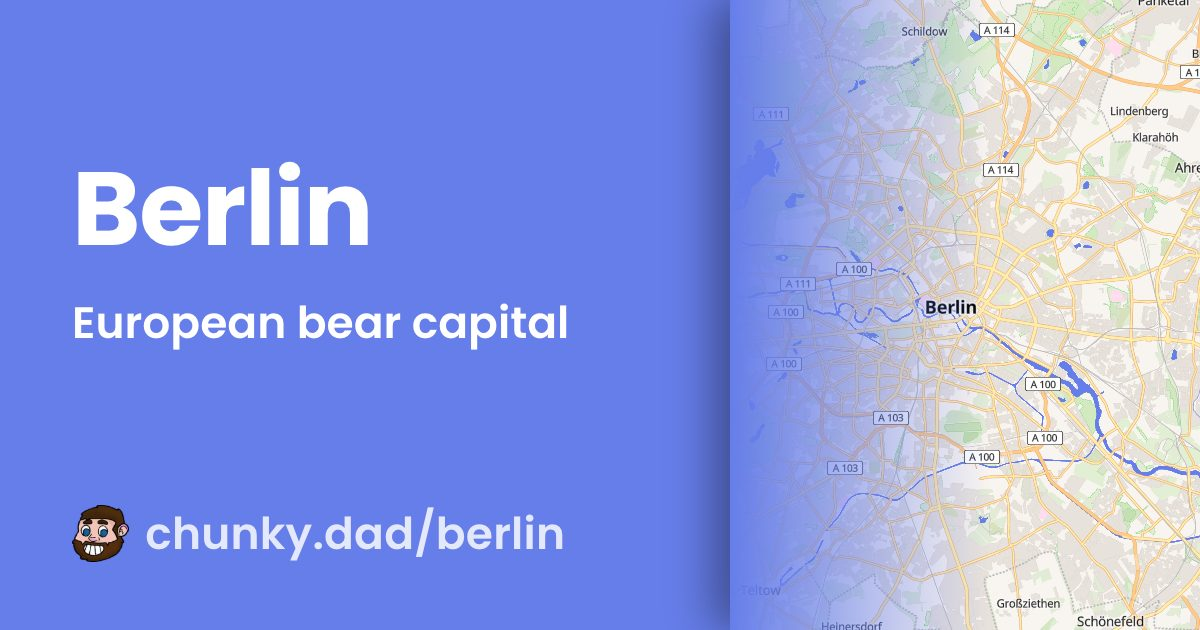
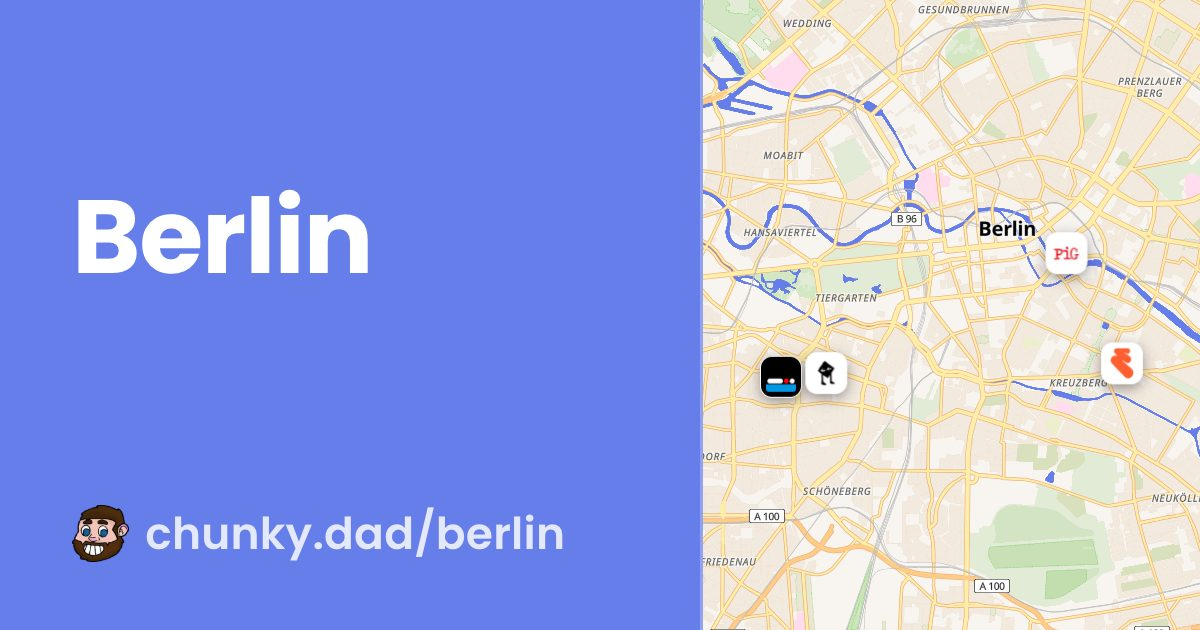
City cards: real venues on the map, no fade, no catchphrases
Three things were wrong with them. The gradient that faded the ground into the
map was a smear across the artwork — gone, replaced by a clean edge. The
tagline was a catchphrase ("What's the bear 411?"), which is not what a share
card is for — gone entirely; the map says what the city is far better.

And the map itself was a generic locator with a meaningless dot in the middle.
It now pins the venues that city's scene actually happens in, drawn with the
same favicon tiles the site uses everywhere else. 95% of venues resolve to a
real icon, so every city but Philly gets pins; Philly falls back to a plain
city map rather than showing nothing.

Ranked by how many events a venue holds, recurring first. Recurring alone was
not viable — only 5 of 24 cities have any — so "most used venue" is what
actually carries it, which was the other half of the suggestion.

Framing had to invert for these. An event card frames the CITY and pulls back
just far enough to keep its one venue in shot; a city card's venues ARE the
subject, so they set the frame and the city centre no longer drags it wide.
NYC was otherwise showing six tiles huddled in one corner of the metro area.

Two judgement calls worth naming:

Pins are NOT deduped by brand. Three venues under one operator are three real
places — Provincetown is exactly that, and collapsing by brand left it with a
single pin. Instead, tiles that genuinely overlap are dropped after the frame
[…]

diff --git a/tools/og-card.js b/tools/og-card.js
@@ -381,22 +381,66 @@ function mapScript(configJson) {
         });
       } catch (e) {}
     });
-    var el = document.createElement('div');
-    el.className = 'og-pin' + (cfg.pin ? '' : ' plain');
-    if (cfg.pin) {
-      var img = document.createElement('img');
-      img.src = cfg.pin;
-      el.appendChild(img);
-    }
-    new maplibregl.Marker({ element: el }).setLngLat([cfg.lng, cfg.lat]).addTo(map);
-    var bounds = new maplibregl.LngLatBounds([cfg.cityLng, cfg.cityLat], [cfg.cityLng, cfg.cityLat]);
-    bounds.extend([cfg.lng, cfg.lat]);
+    // One event pins itself; a city pins the venues it actually has, so the
+    // map reads as that scene rather than as a generic locator.
+    var points = (cfg.pins && cfg.pins.length)
+      ? cfg.pins
+      : [{ lat: cfg.lat, lng: cfg.lng, icon: cfg.pin }];
+    var placed = [];
+    // An EVENT card frames the city and pulls back only far enough to keep its
+    // one venue in shot. A CITY card is the other way round: the venues ARE the
+    // subject, so they set the frame and the city centre does not drag it wide.
+    var usePins = !!(cfg.pins && cfg.pins.length);
+    var bounds = usePins
+      ? new maplibregl.LngLatBounds()
+      : new maplibregl.LngLatBounds([cfg.cityLng, cfg.cityLat], [cfg.cityLng, cfg.cityLat]);
+    points.forEach(function (pt) {
+      if (!pt || !isFinite(pt.lat) || !isFinite(pt.lng)) return;
+      var el = document.createElement('div');
+      el.className = 'og-pin' + (pt.icon ? '' : ' plain');
+      if (pt.plate) el.style.background = pt.plate;
+      if (pt.icon) {
+        var img = document.createElement('img');
+        img.src = pt.icon;
+        // a pin whose icon will not load is worse than no pin
+        img.onerror = function () { el.remove(); };
+        el.appendChild(img);
+      }
+      var marker = new maplibregl.Marker({ element: el }).setLngLat([pt.lng, pt.lat]).addTo(map);
+      placed.push({ marker: marker, lng: pt.lng, lat: pt.lat });
+      bounds.extend([pt.lng, pt.lat]);
+    });
     // padding scaled to the box, not a fixed number: on a 190px-tall inset a
     // flat 70 left almost no usable height and fitBounds answered by zooming
     // out to three states
     var box = map.getContainer();
     var pad = Math.max(10, Math.min(70, Math.min(box.clientWidth, box.clientHeight) * 0.2));
-    map.fitBounds(bounds, { padding: pad, maxZoom: cfg.cityZoom, duration: 0 });
+    // pins are 40px and anchored at their centre, so a tile on the boundary
+    // hangs half off the card unless the frame leaves room for it
+    if (usePins) pad = Math.max(pad, 78);
+    // Venues in one neighbourhood would otherwise fit to a single block, so a
+    // city card is allowed past the city's default zoom but not far past it.
+    var maxZoom = usePins ? Math.min(16, Math.max(cfg.cityZoom + 3, 13)) : cfg.cityZoom;
+    if (bounds.isEmpty && bounds.isEmpty()) {
+      map.jumpTo({ center: [cfg.cityLng, cfg.cityLat], zoom: cfg.cityZoom });
+    } else {
+      map.fitBounds(bounds, { padding: pad, maxZoom: maxZoom, duration: 0 });
+    }
+    // Venues in an old town can sit 150m apart — no zoom separates them without
+    // throwing the city away — so once the frame is settled, drop any tile that
+    // would land on top of one already kept. Four overlapping glyphs read as a
+    // rendering fault; three spaced ones read as a scene.
+    if (usePins && placed.length > 1) {
+      var kept = [];
+      placed.forEach(function (item) {
+        var pointPx = map.project([item.lng, item.lat]);
+        var collides = kept.some(function (k) {
+          return Math.abs(k.x - pointPx.x) < 40 && Math.abs(k.y - pointPx.y) < 40;
+        });
+        if (collides) { item.marker.remove(); return; }
+        kept.push(pointPx);
+      });
+    }
     map.once('idle', function () { ready = true; give(false); });
   } catch (e) {
     give(true);
@@ -570,7 +614,9 @@ function buildOgCardHtml(data) {
     const kindClass = kind ? ` place ${kind}-card` : '';
 
     const titleLength = String(d.title || '').length;
-    const titleClass = titleLength > 46 ? 'title t-xs' : (titleLength > 28 ? 'title t-sm' : 'title');
+    const titleClass = kind
+        ? (titleLength > 13 ? 'title p-xs' : titleLength > 11 ? 'title p-sm' : titleLength > 8 ? 'title p-md' : 'title')
+        : (titleLength > 46 ? 'title t-xs' : (titleLength > 28 ? 'title t-sm' : 'title'));
 
     const faviconTile = favicon
         ? `<span class="fav" style="background:${esc(plate)}"><img src="${favicon}" alt="" onerror="this.parentNode.remove()"></span>`
@@ -586,7 +632,8 @@ function buildOgCardHtml(data) {
         lat: m.lat, lng: m.lng,
         cityLat: m.cityLat, cityLng: m.cityLng,
         cityZoom: Number(m.cityZoom) || 11,
-        pin: favicon
+        pin: favicon,
+        pins: Array.isArray(m.pins) ? m.pins : null
     }).replace(/</g, '\\u003c') : '';
 
     // The address bar, not a place name: someone who sees the image should
@@ -864,34 +911,33 @@ ${m ? '<link rel="stylesheet" href="https://unpkg.com/maplibre-gl@5.24.0/dist/ma
      event card. */
   /* the body's own padding reserves the map's column — setting a width on
      .copy as well would subtract the same space twice and crush the name */
-  body.place:not(.no-map) { padding-right: 540px; }
+  body.place:not(.no-map) { padding-right: 566px; }
+  /* A city name is one or two words and must not wrap mid-word, so it steps
+     down by length rather than clamping. "Provincetown" is the wide case. */
   body.place .title { font-size: 104px; line-height: 1.06; -webkit-line-clamp: 2; }
-  body.place .title.t-sm { font-size: 78px; }
-  body.place .title.t-xs { font-size: 60px; }
+  body.place .title.p-md { font-size: 88px; }
+  body.place .title.p-sm { font-size: 74px; }
+  body.place .title.p-xs { font-size: 62px; }
   body.place:not(.no-map) .map {
     right: 0;
     top: 0;
     bottom: 0;
-    width: 470px;
+    width: 500px;
     height: auto;
     border-radius: 0;
-    box-shadow: -18px 0 44px rgba(6, 8, 20, 0.42);
-  }
-  /* the ground fades into the map rather than butting against it */
-  body.place:not(.no-map) .map::after {
-    content: '';
-    position: absolute;
-    inset: 0;
-    pointer-events: none;
-    background: linear-gradient(90deg, ${aurora.c1} 0%, rgba(0, 0, 0, 0) 55%);
+    /* a clean edge, not a gradient smear across the artwork */
+    box-shadow: none;
+    border-left: 3px solid rgba(255, 255, 255, 0.20);
   }
   body.place:not(.no-map) .row span { max-width: 560px; }
   /* the subtitle is a tagline, not a time or a venue — the clock glyph beside
      it was reading as information it is not */
   body.place .row svg { display: none; }
+  body.place .og-pin { width: 40px; height: 40px; border-radius: 11px; }
   body.place .row { gap: 0; }
-  /* and there is no single point to mark on a whole city */
-  body.place .og-pin { display: none; }
+  /* a city with no pinnable venues shows a bare map rather than a lone dot in
+     the middle of it — an unlabelled marker means nothing on a city card */
+  body.place .og-pin.plain { display: none; }
   body.home-card .title { letter-spacing: -0.02em; }
 </style>
 </head>

diff --git a/tools/generate-og-images.js b/tools/generate-og-images.js
@@ -391,6 +391,60 @@ function pruneCards(keep) {
  * cached it, and would re-render 24 cards every time an event rolled off a
  * calendar. Name, tagline and map are true indefinitely, so these render once.
  */
+/**
+ * The venues a city card pins: the places that city's scene actually happens
+ * in, most-used first, one pin per venue.
+ *
+ * Ranked by how many events a venue holds (recurring ones first, since a
+ * weekly is more "this is the scene here" than a one-off), then alphabetically
+ * so the choice is stable run to run. Capped, because a map of a dozen
+ * overlapping tiles reads as clutter rather than as a city.
+ */
+function collectCityPins(cityKey, limit = 8) {
+  let events = [];
+  try {
+    events = JSON.parse(fs.readFileSync(path.join(ROOT, 'data', 'calendars', `${cityKey}.json`), 'utf8')).events || [];
+  } catch {
+    return [];
+  }
+  const eventColors = loadEventColors(cityKey);
+  const barColors = loadBarColors(cityKey);
+
+  const byVenue = new Map();
+  for (const ev of events) {
+    const lat = Number(ev && ev.coordinates && ev.coordinates.lat);
+    const lng = Number(ev && ev.coordinates && ev.coordinates.lng);
+    if (!Number.isFinite(lat) || !Number.isFinite(lng) || (lat === 0 && lng === 0)) continue;
+    // festivals are city-wide, not a venue, and would pin an arbitrary point
+    if (ev.festival) continue;
+    const key = String(ev.bar || ev.slug || '').toLowerCase();
+    if (!key) continue;
+    if (!byVenue.has(key)) byVenue.set(key, { key, lat, lng, count: 0, recurring: false, event: ev });
+    const slot = byVenue.get(key);
+    slot.count++;
+    if (ev.recurring) slot.recurring = true;
+  }
+
+  return [...byVenue.values()]
+    .sort((a, b) => (b.recurring - a.recurring) || (b.count - a.count) || a.key.localeCompare(b.key))
+    .map(slot => {
+      const colors = eventColors.get(slot.event.slug) || barColors.get(slot.key) || null;
+      const website = (colors && colors.url) || slot.event.website
+        || (barColors.get(slot.key) && barColors.get(slot.key).website);
+      const icon = dataUri(localFaviconFile(website));
+      if (!icon) return null;   // a blank tile says nothing; better no pin
+      const plate = colors && /^#[0-9a-fA-F]{3,8}$/.test(colors.faviconPlate || '') ? colors.faviconPlate : '#ffffff';
+      return { lat: slot.lat, lng: slot.lng, icon, plate };
+    })
+    .filter(Boolean)
+    // Deliberately NOT deduped by icon. Three venues under one operator are
+    // three real places, and Provincetown is exactly that — collapsing them by
+    // brand left it with a single pin. Tiles that genuinely overlap on the
+    // finished map are dropped there instead, where their pixel positions are
+    // actually known.
+    .slice(0, limit);
+}
+
 function collectPlaceTargets() {
   const { CITY_CONFIG } = require(path.join(ROOT, 'js', 'city-config.js'));
   const out = [];
@@ -407,14 +461,17 @@ function collectPlaceTargets() {
       card: {
         kind: 'city',
         title: cfg.name || cityKey,
-        when: cfg.tagline || '',
+        // No tagline. "What's the bear 411?" is a catchphrase, and a share
+        // card is not the place for one — the map and the venues on it say
+        // what this city is far better than a slogan does.
         cityPath: cityKey,
         logoUrl,
         showMap: hasPoint,
         map: hasPoint ? {
           lat: Number(point.lat), lng: Number(point.lng),
           cityLat: Number(point.lat), cityLng: Number(point.lng),
-          cityZoom: Number(cfg.mapZoom) || 11
+          cityZoom: Number(cfg.mapZoom) || 11,
+          pins: collectCityPins(cityKey)
         } : null
       }
     });
@@ -569,5 +626,5 @@ if (require.main === module) {
   });
 }
 
-module.exports = { collectTargets, localFaviconFile };
+module.exports = { collectTargets, collectPlaceTargets, collectCityPins, localFaviconFile };
 

diff --git a/palm-springs/index.html b/palm-springs/index.html
@@ -86,11 +86,11 @@
   <meta property="og:title" content="Palm Springs - chunky.dad Bear Guide">
   <meta property="og:description" content="Complete gay bear guide to Palm Springs - events, bars, and the hottest bear scene">
   <meta property="og:url" content="https://chunky.dad/palm-springs/">
-  <meta property="og:image" content="https://chunky.dad/img/og/city/palm-springs.jpg?v=49d80c3b">
+  <meta property="og:image" content="https://chunky.dad/img/og/city/palm-springs.jpg?v=0e400e43">
   <meta name="twitter:card" content="summary_large_image">
   <meta name="twitter:title" content="Palm Springs - chunky.dad Bear Guide">
   <meta name="twitter:description" content="Complete gay bear guide to Palm Springs - events, bars, and the hottest bear scene">
-  <meta name="twitter:image" content="https://chunky.dad/img/og/city/palm-springs.jpg?v=49d80c3b">
+  <meta name="twitter:image" content="https://chunky.dad/img/og/city/palm-springs.jpg?v=0e400e43">
 </head>
 <body>
         <header>

diff --git a/birmingham/index.html b/birmingham/index.html
@@ -86,11 +86,11 @@
   <meta property="og:title" content="Birmingham - chunky.dad Bear Guide">
   <meta property="og:description" content="Complete gay bear guide to Birmingham - events, bars, and the hottest bear scene">
   <meta property="og:url" content="https://chunky.dad/birmingham/">
-  <meta property="og:image" content="https://chunky.dad/img/og/city/birmingham.jpg?v=a8b32d66">
+  <meta property="og:image" content="https://chunky.dad/img/og/city/birmingham.jpg?v=8c2b5cdf">
   <meta name="twitter:card" content="summary_large_image">
   <meta name="twitter:title" content="Birmingham - chunky.dad Bear Guide">
   <meta name="twitter:description" content="Complete gay bear guide to Birmingham - events, bars, and the hottest bear scene">
-  <meta name="twitter:image" content="https://chunky.dad/img/og/city/birmingham.jpg?v=a8b32d66">
+  <meta name="twitter:image" content="https://chunky.dad/img/og/city/birmingham.jpg?v=8c2b5cdf">
 </head>
 <body>
         <header>

diff --git a/san-diego/index.html b/san-diego/index.html
@@ -86,11 +86,11 @@
   <meta property="og:title" content="San Diego - chunky.dad Bear Guide">
   <meta property="og:description" content="Complete gay bear guide to San Diego - events, bars, and the hottest bear scene">
   <meta property="og:url" content="https://chunky.dad/san-diego/">
-  <meta property="og:image" content="https://chunky.dad/img/og/city/san-diego.jpg?v=00c21808">
+  <meta property="og:image" content="https://chunky.dad/img/og/city/san-diego.jpg?v=d51c6531">
   <meta name="twitter:card" content="summary_large_image">
   <meta name="twitter:title" content="San Diego - chunky.dad Bear Guide">
   <meta name="twitter:description" content="Complete gay bear guide to San Diego - events, bars, and the hottest bear scene">
-  <meta name="twitter:image" content="https://chunky.dad/img/og/city/san-diego.jpg?v=00c21808">
+  <meta name="twitter:image" content="https://chunky.dad/img/og/city/san-diego.jpg?v=d51c6531">
 </head>
 <body>
         <header>

diff --git a/philly/index.html b/philly/index.html
@@ -86,11 +86,11 @@
   <meta property="og:title" content="Philadelphia - chunky.dad Bear Guide">
   <meta property="og:description" content="Complete gay bear guide to Philadelphia - events, bars, and the hottest bear scene">
   <meta property="og:url" content="https://chunky.dad/philly/">
-  <meta property="og:image" content="https://chunky.dad/img/og/city/philly.jpg?v=4ba19599">
+  <meta property="og:image" content="https://chunky.dad/img/og/city/philly.jpg?v=79ab6bb8">
   <meta name="twitter:card" content="summary_large_image">
   <meta name="twitter:title" content="Philadelphia - chunky.dad Bear Guide">
   <meta name="twitter:description" content="Complete gay bear guide to Philadelphia - events, bars, and the hottest bear scene">
-  <meta name="twitter:image" content="https://chunky.dad/img/og/city/philly.jpg?v=4ba19599">
+  <meta name="twitter:image" content="https://chunky.dad/img/og/city/philly.jpg?v=79ab6bb8">
 </head>
 <body>
         <header>

diff --git a/ptown/index.html b/ptown/index.html
@@ -86,11 +86,11 @@
   <meta property="og:title" content="Provincetown - chunky.dad Bear Guide">
   <meta property="og:description" content="Complete gay bear guide to Provincetown - events, bars, and the hottest bear scene">
   <meta property="og:url" content="https://chunky.dad/ptown/">
-  <meta property="og:image" content="https://chunky.dad/img/og/city/ptown.jpg?v=d0f3ada3">
+  <meta property="og:image" content="https://chunky.dad/img/og/city/ptown.jpg?v=1df89e4a">
   <meta name="twitter:card" content="summary_large_image">
   <meta name="twitter:title" content="Provincetown - chunky.dad Bear Guide">
   <meta name="twitter:description" content="Complete gay bear guide to Provincetown - events, bars, and the hottest bear scene">
-  <meta name="twitter:image" content="https://chunky.dad/img/og/city/ptown.jpg?v=d0f3ada3">
+  <meta name="twitter:image" content="https://chunky.dad/img/og/city/ptown.jpg?v=1df89e4a">
 </head>
 <body>
         <header>

diff --git a/brighton/index.html b/brighton/index.html
@@ -86,11 +86,11 @@
   <meta property="og:title" content="Brighton - chunky.dad Bear Guide">
   <meta property="og:description" content="Complete gay bear guide to Brighton - events, bars, and the hottest bear scene">
   <meta property="og:url" content="https://chunky.dad/brighton/">
-  <meta property="og:image" content="https://chunky.dad/img/og/city/brighton.jpg?v=e55899ef">
+  <meta property="og:image" content="https://chunky.dad/img/og/city/brighton.jpg?v=93edc884">
   <meta name="twitter:card" content="summary_large_image">
   <meta name="twitter:title" content="Brighton - chunky.dad Bear Guide">
   <meta name="twitter:description" content="Complete gay bear guide to Brighton - events, bars, and the hottest bear scene">
-  <meta name="twitter:image" content="https://chunky.dad/img/og/city/brighton.jpg?v=e55899ef">
+  <meta name="twitter:image" content="https://chunky.dad/img/og/city/brighton.jpg?v=93edc884">
 </head>
 <body>
         <header>

diff --git a/portland/index.html b/portland/index.html
@@ -86,11 +86,11 @@
   <meta property="og:title" content="Portland - chunky.dad Bear Guide">
   <meta property="og:description" content="Complete gay bear guide to Portland - events, bars, and the hottest bear scene">
   <meta property="og:url" content="https://chunky.dad/portland/">
-  <meta property="og:image" content="https://chunky.dad/img/og/city/portland.jpg?v=f8d67061">
+  <meta property="og:image" content="https://chunky.dad/img/og/city/portland.jpg?v=3a3aa76e">
   <meta name="twitter:card" content="summary_large_image">
   <meta name="twitter:title" content="Portland - chunky.dad Bear Guide">
   <meta name="twitter:description" content="Complete gay bear guide to Portland - events, bars, and the hottest bear scene">
-  <meta name="twitter:image" content="https://chunky.dad/img/og/city/portland.jpg?v=f8d67061">
+  <meta name="twitter:image" content="https://chunky.dad/img/og/city/portland.jpg?v=3a3aa76e">
 </head>
 <body>
         <header>

diff --git a/nola/index.html b/nola/index.html
@@ -86,11 +86,11 @@
   <meta property="og:title" content="New Orleans - chunky.dad Bear Guide">
   <meta property="og:description" content="Complete gay bear guide to New Orleans - events, bars, and the hottest bear scene">
   <meta property="og:url" content="https://chunky.dad/nola/">
-  <meta property="og:image" content="https://chunky.dad/img/og/city/nola.jpg?v=9b2b076e">
+  <meta property="og:image" content="https://chunky.dad/img/og/city/nola.jpg?v=f2f97138">
   <meta name="twitter:card" content="summary_large_image">
   <meta name="twitter:title" content="New Orleans - chunky.dad Bear Guide">
   <meta name="twitter:description" content="Complete gay bear guide to New Orleans - events, bars, and the hottest bear scene">
-  <meta name="twitter:image" content="https://chunky.dad/img/og/city/nola.jpg?v=9b2b076e">
+  <meta name="twitter:image" content="https://chunky.dad/img/og/city/nola.jpg?v=f2f97138">
 </head>
 <body>
         <header>

diff --git a/atlanta/index.html b/atlanta/index.html
@@ -86,11 +86,11 @@
   <meta property="og:title" content="Atlanta - chunky.dad Bear Guide">
   <meta property="og:description" content="Complete gay bear guide to Atlanta - events, bars, and the hottest bear scene">
   <meta property="og:url" content="https://chunky.dad/atlanta/">
-  <meta property="og:image" content="https://chunky.dad/img/og/city/atlanta.jpg?v=7425e42c">
+  <meta property="og:image" content="https://chunky.dad/img/og/city/atlanta.jpg?v=9a5da0b1">
   <meta name="twitter:card" content="summary_large_image">
   <meta name="twitter:title" content="Atlanta - chunky.dad Bear Guide">
   <meta name="twitter:description" content="Complete gay bear guide to Atlanta - events, bars, and the hottest bear scene">
-  <meta name="twitter:image" content="https://chunky.dad/img/og/city/atlanta.jpg?v=7425e42c">
+  <meta name="twitter:image" content="https://chunky.dad/img/og/city/atlanta.jpg?v=9a5da0b1">
 </head>
 <body>
         <header>

diff --git a/chicago/index.html b/chicago/index.html
@@ -86,11 +86,11 @@
   <meta property="og:title" content="Chicago - chunky.dad Bear Guide">
   <meta property="og:description" content="Complete gay bear guide to Chicago - events, bars, and the hottest bear scene">
   <meta property="og:url" content="https://chunky.dad/chicago/">
-  <meta property="og:image" content="https://chunky.dad/img/og/city/chicago.jpg?v=868b154e">
+  <meta property="og:image" content="https://chunky.dad/img/og/city/chicago.jpg?v=6e042b6f">
   <meta name="twitter:card" content="summary_large_image">
   <meta name="twitter:title" content="Chicago - chunky.dad Bear Guide">
   <meta name="twitter:description" content="Complete gay bear guide to Chicago - events, bars, and the hottest bear scene">
-  <meta name="twitter:image" content="https://chunky.dad/img/og/city/chicago.jpg?v=868b154e">
+  <meta name="twitter:image" content="https://chunky.dad/img/og/city/chicago.jpg?v=6e042b6f">
 </head>
 <body>
         <header>
